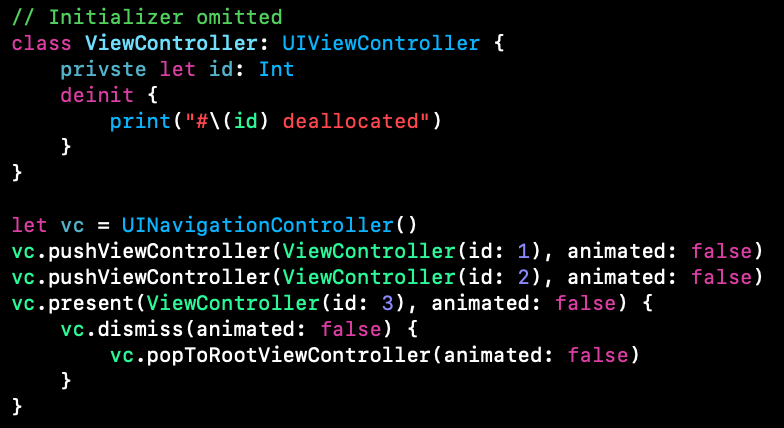
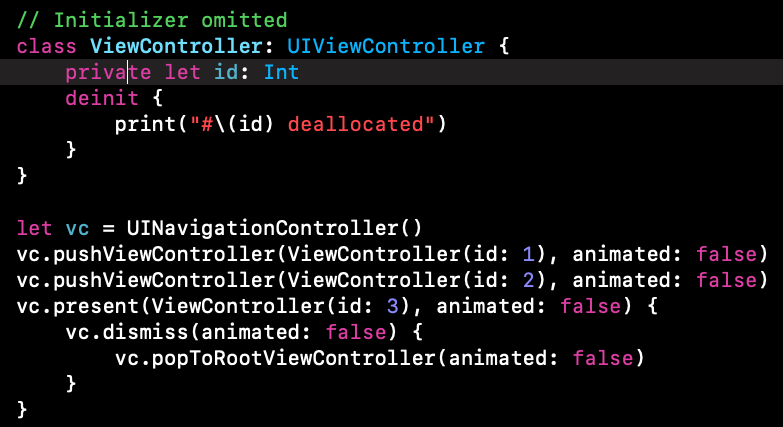
update qa

diff --git a/qa/QA_12.playground/Contents.swift b/qa/QA_12.playground/Contents.swift
@@ -3,7 +3,7 @@ import PlaygroundSupport
 
 // Initializer omitted
 class ViewController: UIViewController {
-    privste let id: Int
+    private let id: Int
     deinit {
         print("#\(id) deallocated")
     }
